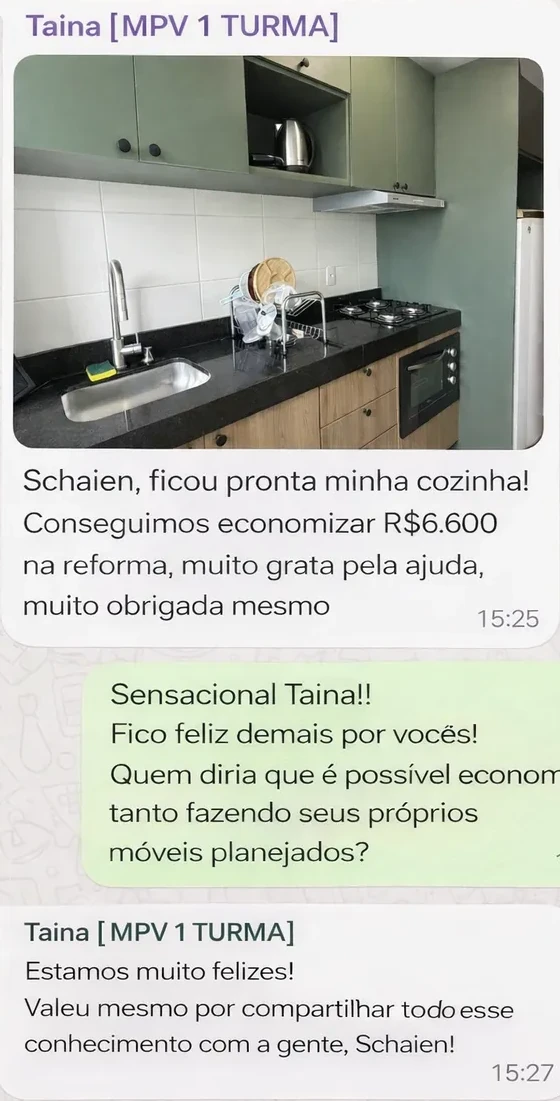
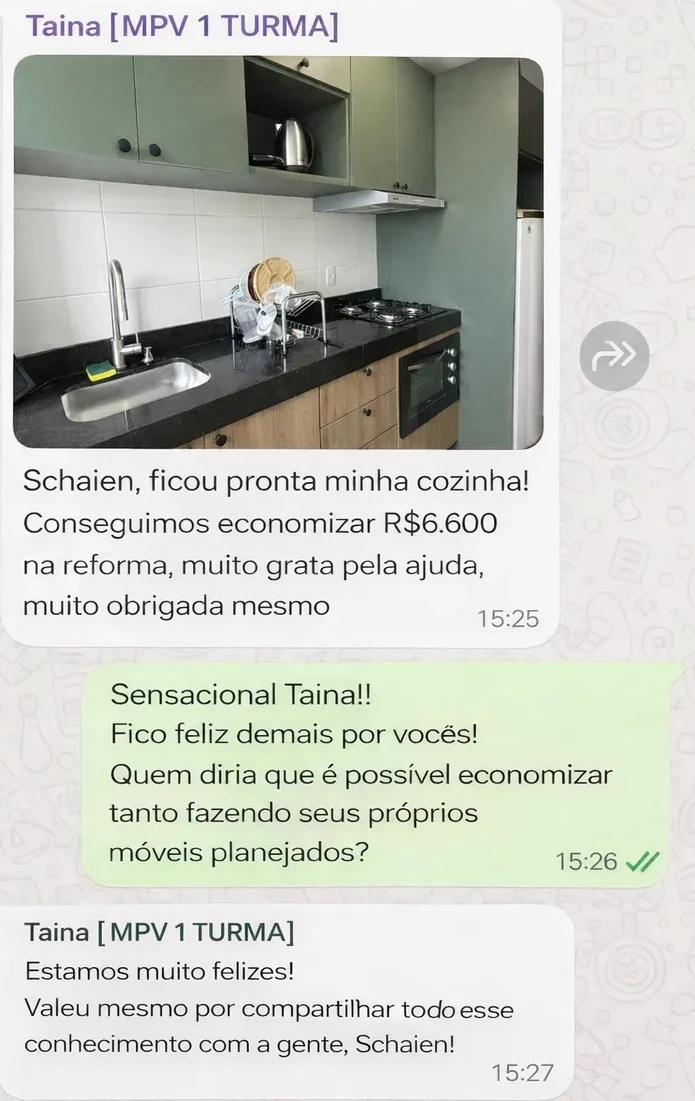
refactor: consolidate testimonials into expandable print wall

diff --git a/apps/web/app/lp/proof.tsx b/apps/web/app/lp/proof.tsx
@@ -1,53 +1,60 @@
 "use client";
 
 import { useRef, useState } from "react";
-import { LeadCaptureButton } from "../replica-components";
 
 const conversations = {
   adriely: { name: "Adriely Marconato Marum", image: "adriely-conversa", text: "Ainda faltam alguns detalhes para finalizar, mas já estamos muito felizes com o resultado! Também quero deixar meu agradecimento especial ao Schaien Vick pela assessoria durante todo o desenvolvimento do nosso projeto. Ele foi extremamente atencioso, tirou todas as minhas dúvidas, conferiu o projeto e sugeriu melhorias que fizeram toda a diferença. Indico o curso de olhos fechados!" },
   ale: { name: "Ale Rio", image: "ale-conversa", text: "Todo aprendizado e suporte do Schaein foi essencial pra completar esse sonho. Uma super paciência, cada detalhe dos vídeos e do suporte aqui incluindo a experiência dos outros alunos foi essencial. Ele criou um monstrinho que agora quer fazer projeto o tempo todo. Na mensagem completa, Ale também relata orçamentos entre R$ 85 mil e R$ 120 mil, R$ 28.500 de material e R$ 6.000 de montagem. São valores relatados para seu projeto; não representam economia garantida ou comparação auditada." },
   thais: { name: "Thais Moraes", image: "thais-conversa", text: "Prontinho! Projeto executado e instalado. Quero agradecer todo apoio e orientações, Schaien Vick. Eu amei." },
   taina: { name: "Taina", image: "taina-conversa", text: "Schaien, ficou pronta minha cozinha! Conseguimos economizar R$ 6.600 na reforma, muito grata pela ajuda, muito obrigada mesmo. Estamos muito felizes! Valeu mesmo por compartilhar todo esse conhecimento com a gente, Schaien! O valor é um relato individual, sem garantia de economia para outros projetos." },
+  maicon: { name: "Maicon", image: "maicon-conversa", text: "Tudo pronto! Projeto executado. Schaien, muito obrigado pela ajuda! Consegui economizar mais de R$ 10.000 na cozinha. Isso vai me ajudar muito para conseguir mobiliar o restante da casa! Economia relatada pelo participante, sem comparação auditada." },
+  mirella: { name: "Mirella", image: "mirella-processo", text: "Tá acontecendo! Mirella compartilha fotos do armário em montagem em 14 de outubro de 2026. Registro de processo em andamento." },
+  carol: { name: "Carol Kuhn", image: "carol-conversa", text: "Eu tbm!!! Investi no curso com a esperança de tirar meus sonhos do papel... e estão!!! Em breve, trago as novidades do meu projeto por aqui tbm. Registro de expectativa e andamento; a citação acima da mensagem é de Juliana, outra participante." },
 };
 
-function Conversation({ person, children = "Ampliar conversa" }: { person: keyof typeof conversations; children?: React.ReactNode }) {
-  const dialog = useRef<HTMLDialogElement>(null);
-  const trigger = useRef<HTMLButtonElement>(null);
-  const [open, setOpen] = useState(false);
-  const item = conversations[person];
-  function close() { dialog.current?.close(); setOpen(false); trigger.current?.focus(); }
-  return <>
-    <button type="button" className="lp-conversation-link" ref={trigger} onClick={() => { setOpen(true); dialog.current?.showModal(); }}>{children}<span aria-hidden="true"> ↗</span></button>
-    <dialog ref={dialog} className="lp-proof-dialog" aria-labelledby={`conversation-${person}`} onCancel={e => { e.preventDefault(); close(); }} onClick={e => { if (e.target === e.currentTarget) { const b = e.currentTarget.getBoundingClientRect(); if (e.clientX < b.left || e.clientX > b.right || e.clientY < b.top || e.clientY > b.bottom) close(); } }}>
-      <header><h2 id={`conversation-${person}`}>{item.name}</h2><button type="button" onClick={close} autoFocus aria-label="Fechar conversa">Fechar <span aria-hidden="true">×</span></button></header>
-      {open && <><img src={`/lp/${item.image}.webp`} alt={`Conversa de ${item.name} no WhatsApp, com dados de contato protegidos`} /><details><summary>Ler em texto</summary><p>{item.text}</p><p>Texto de apoio à leitura, com emojis omitidos e pontuação ajustada. O print preserva a mensagem original.</p></details></>}
-    </dialog>
-  </>;
-}
+
+type Person = keyof typeof conversations;
+const columns: Person[][] = [["thais", "mirella"], ["adriely", "carol"], ["maicon"], ["ale", "taina"]];
 
 export function ResultsProof() {
-  return <section className="lp-proof lp-results" aria-labelledby="lp-results-title">
-    <div className="lp-proof-inner">
-      <h2 id="lp-results-title">O projeto ganha forma.<br /><span>E passa a fazer parte da casa.</span></h2>
-      <p className="lp-intro">Veja os móveis de Adriely e o que ela compartilhou sobre a experiência com o curso.</p>
-      <div className="lp-case-layout">
-        <figure className="lp-case-photo"><img src="/lp/adriely-cozinha.webp" alt="Cozinha de Adriely: armários sob a pia, ilha com bancada e geladeira" width="1600" height="1200" loading="lazy" /><figcaption>Cozinha do projeto compartilhado por Adriely.</figcaption></figure>
-        <div className="lp-case-story"><h3>Adriely Marconato Marum</h3><p>Um projeto que reúne móveis para cozinha, lavanderia, banheiros, sala e quarto.</p><img className="lp-chat" src="/lp/adriely-suporte.webp" alt="Adriely agradece a assessoria, as dúvidas respondidas e a revisão do projeto, e indica o curso" width="538" height="434" loading="lazy" /><Conversation person="adriely" /><p className="lp-context">No relato, Adriely também informa que ainda faltavam instalar o espelho da penteadeira e uma prateleira.</p></div>
+  const [expanded, setExpanded] = useState(false);
+  const [selected, setSelected] = useState<Person | null>(null);
+  const dialog = useRef<HTMLDialogElement>(null);
+  const trigger = useRef<HTMLElement | null>(null);
+  const item = selected ? conversations[selected] : null;
+  function open(person: Person) {
+    trigger.current = document.activeElement as HTMLElement;
+    setSelected(person);
+    dialog.current?.showModal();
+  }
+  function close() {
+    dialog.current?.close();
+    setSelected(null);
+    trigger.current?.focus();
+  }
+  return <section className="lp-testimonials" aria-labelledby="lp-testimonials-title">
+    <div className="lp-testimonials-inner">
+      <h2 id="lp-testimonials-title">Projetos que saíram do papel.<br />Relatos de quem colocou em prática.</h2>
+      <p className="lp-wall-intro">Veja o que os alunos compartilham na comunidade Móveis Por Você.</p>
+      <div className={`lp-wall-viewport${expanded ? " is-expanded" : ""}`} id="lp-testimonial-wall">
+        <div className="lp-wall">
+          {columns.map((column, index) => <div className="lp-wall-column" key={index}>
+            {column.map(person => {
+              const entry = conversations[person];
+              return <figure className="lp-wall-item" key={person}>
+                <button type="button" onClick={() => open(person)} aria-label={`Ampliar depoimento de ${entry.name}`}><img src={`/lp/${entry.image}.webp`} alt={`Print da conversa de ${entry.name}: ${entry.text}`} loading="lazy" /></button>
+                <figcaption>{entry.name}{person === "mirella" || person === "carol" ? " · Projeto em andamento" : ""}</figcaption>
+              </figure>;
+            })}
+          </div>)}
+        </div>
       </div>
-      <p className="lp-privacy">Mensagens compartilhadas na comunidade. Telefones e fotos de perfil ocultados para preservar a privacidade.</p>
+      <div className="lp-wall-controls"><button type="button" aria-expanded={expanded} aria-controls="lp-testimonial-wall" onClick={() => setExpanded(v => !v)}>{expanded ? "Recolher relatos" : "Ver todos os relatos"}<svg viewBox="0 0 24 24" width="18" height="18" fill="none" aria-hidden="true" className={expanded ? "is-up" : ""}><path d="M12 4v16m-6-6 6 6 6-6" stroke="currentColor" strokeWidth="1.5" strokeLinecap="round" strokeLinejoin="round" /></svg></button></div>
+      <p className="lp-wall-note">Toque em um print para ampliar. Telefones e fotos de perfil protegidos.<br />Experiências individuais; custos e resultados variam conforme cada projeto.</p>
     </div>
+    <dialog ref={dialog} className="lp-wall-dialog" aria-labelledby="lp-wall-dialog-title" onCancel={e => { e.preventDefault(); close(); }} onClick={e => { if (e.target === e.currentTarget) { const rect = e.currentTarget.getBoundingClientRect(); if (e.clientX < rect.left || e.clientX > rect.right || e.clientY < rect.top || e.clientY > rect.bottom) close(); } }}>
+      <header><h2 id="lp-wall-dialog-title">{item?.name ?? "Depoimento"}</h2><button type="button" onClick={close} autoFocus aria-label="Fechar depoimento">Fechar ×</button></header>
+      {item && <><img src={`/lp/${item.image}.webp`} alt={`Conversa de ${item.name} com dados de contato protegidos`} /><details><summary>Ler em texto</summary><p>{item.text}</p><p>Texto de apoio à leitura. O print preserva a mensagem original.</p></details></>}
+    </dialog>
   </section>;
-}
-
-export function SupportProof() {
-  return <section className="lp-proof lp-support" aria-labelledby="lp-support-title"><div className="lp-proof-inner">
-    <div className="lp-support-layout"><div><h2 id="lp-support-title">Aprender também é poder<br /><span>tirar as dúvidas pelo caminho.</span></h2><p className="lp-intro">Ale conta como os vídeos, o suporte de Schaien e a experiência dos outros alunos participaram do seu projeto.</p><p className="lp-person">Ale Rio</p><img className="lp-chat" src="/lp/ale-suporte.webp" alt="Ale relata que o aprendizado e o suporte foram essenciais, destacando a paciência, os vídeos e a experiência de outros alunos" width="547" height="848" loading="lazy" /><Conversation person="ale" /><p className="lp-context">Mensagem original de Ale, com os custos relatados para seu projeto. Os valores dependem do escopo e não representam economia garantida.</p></div><div className="lp-process"><h3>Da chegada das peças à montagem</h3><p>Mirella compartilhou uma etapa do armário em montagem. É um registro do processo, ainda em andamento.</p><details><summary>Ver o registro de montagem de Mirella</summary><img src="/lp/mirella-processo.webp" alt="Mirella mostra o armário em montagem e escreve: Tá acontecendo" width="547" height="729" loading="lazy" /></details><details><summary>Ver o primeiro dia da cozinha de Ale</summary><img src="/lp/ale-processo.webp" alt="Ale mostra a cozinha em montagem e relata um imprevisto com o interruptor atrás da geladeira" width="547" height="746" loading="lazy" /></details></div></div>
-  </div></section>;
-}
-
-export function StudentProof() {
-  return <section className="lp-proof lp-students" aria-labelledby="lp-students-title"><div className="lp-proof-inner"><h2 id="lp-students-title">Outras cozinhas.<br /><span>Outras histórias para conhecer.</span></h2><div className="lp-student-grid">
-    <article><img className="lp-student-photo" src="/lp/thais-projeto.webp" alt="Cozinha compartilhada por Thais, com móveis amadeirados e bancada escura" width="558" height="558" loading="lazy" /><h3>Thais Moraes</h3><blockquote>“Prontinho! Projeto executado e instalado”</blockquote><p>Thais também agradeceu o apoio e as orientações de Schaien.</p><Conversation person="thais" /></article>
-    <article><img className="lp-student-photo" src="/lp/taina-projeto.webp" alt="Cozinha compartilhada por Taina, com aéreos verdes e armários inferiores amadeirados" width="528" height="392" loading="lazy" /><h3>Taina</h3><blockquote>“Estamos muito felizes!”</blockquote><p>Na conversa, Taina agradece o conhecimento compartilhado e a ajuda no projeto.</p><Conversation person="taina" /></article>
-  </div><p className="lp-privacy">Fotos e relatos de projetos individuais. Cada execução tem seu próprio escopo, materiais e custos.</p><div className="lp-proof-action"><LeadCaptureButton className="btn-cta" origin="lp-depoimentos">QUERO CONHECER O CURSO</LeadCaptureButton></div></div></section>;
 }

diff --git a/apps/web/app/lp/proof.css b/apps/web/app/lp/proof.css
@@ -1,1 +1,1 @@
-.lp-proof{padding:88px 24px;color:#f4f1ee;background:#191614}.lp-proof-inner{max-width:1120px;margin:0 auto}.lp-proof h2{font-family:Montserrat,sans-serif;font-size:clamp(28px,3.2vw,44px);font-weight:800;line-height:1.18;letter-spacing:-.025em;text-wrap:balance;margin:0 0 24px}.lp-proof h2 span{color:#ff790f}.lp-proof h3{font:700 23px/1.3 Montserrat,sans-serif;margin:0 0 16px}.lp-proof p{font:400 17px/1.65 Inter,sans-serif;max-width:65ch;margin:0 0 20px}.lp-proof .lp-intro{color:#d0c5bd;max-width:60ch;margin-bottom:40px}.lp-case-layout{display:grid;grid-template-columns:1.1fr 1fr;gap:48px;align-items:start}.lp-case-photo{margin:0;position:sticky;top:32px}.lp-case-photo>img{display:block;width:100%;height:auto;aspect-ratio:4/3;object-fit:cover;border-radius:12px}.lp-case-photo figcaption{font:400 14px/1.5 Inter,sans-serif;color:#bfb3aa;margin-top:12px}.lp-chat{display:block;width:100%;height:auto;border-radius:8px;margin:20px 0 12px}.lp-conversation-link{font:600 15px/1.5 Inter,sans-serif;color:#ffac6c;text-decoration:underline;text-underline-offset:5px;padding:10px 0;cursor:pointer;min-height:44px}.lp-conversation-link:hover{color:#ffd6b8}.lp-proof .lp-context{font-size:14px;color:#c6bbb3;margin-top:16px}.lp-proof .lp-privacy{font-size:13px;color:#c6bbb3;margin-top:32px}.lp-support{background:#211c18;border-block:1px solid #40342b}.lp-support-layout{display:grid;grid-template-columns:1.2fr 1fr;gap:72px}.lp-person{font-weight:700!important}.lp-process{padding-top:4px}.lp-proof details{border-top:1px solid #59483b;padding:16px 0}.lp-proof summary{font:600 16px/1.6 Inter,sans-serif;cursor:pointer;min-height:44px}.lp-proof details img{display:block;width:100%;height:auto;margin-top:20px;border-radius:8px}.lp-student-grid{display:grid;grid-template-columns:1fr 1fr;gap:48px;margin-top:40px}.lp-student-photo{display:block;width:100%;height:auto;aspect-ratio:4/3;object-fit:cover;border-radius:12px;margin-bottom:24px}.lp-student-grid blockquote{font:600 22px/1.5 Inter,sans-serif;color:#fff;margin:0 0 12px}.lp-proof-action{margin-top:32px}.lp-proof-dialog{position:fixed;inset:0;margin:auto;padding:0 20px 24px;border:1px solid #574b42;border-radius:12px;background:#211c18;color:#f4f1ee;width:min(720px,calc(100vw - 24px));max-height:90dvh;overflow:auto;overscroll-behavior:contain}.lp-proof-dialog::backdrop{background:rgb(0 0 0/.85)}.lp-proof-dialog header{display:flex;align-items:center;justify-content:space-between;gap:16px;position:sticky;top:0;z-index:1;padding:18px 0;background:#211c18}.lp-proof-dialog header h2{font:600 17px/1.4 Inter,sans-serif;margin:0}.lp-proof-dialog header button{font:600 15px/1.5 Inter,sans-serif;padding:8px;min-height:44px;white-space:nowrap}.lp-proof-dialog>img{width:100%;height:auto;display:block}.lp-proof-dialog details{margin-top:20px}.lp-proof-dialog details p{font:400 16px/1.7 Inter,sans-serif;margin-top:16px}.lp-proof :focus-visible,.lp-proof-dialog :focus-visible{outline:2px solid #ffb47d;outline-offset:4px}.lp-proof-dialog summary{cursor:pointer}.lp-proof-dialog[open]{animation:lp-open .18s ease-out}@keyframes lp-open{from{opacity:0;transform:translateY(8px)}to{opacity:1;transform:translateY(0)}}@media(max-width:760px){.lp-proof{padding:56px 20px}.lp-case-layout,.lp-support-layout,.lp-student-grid{grid-template-columns:1fr;gap:32px}.lp-case-photo{position:static}.lp-proof .lp-intro{margin-bottom:28px}.lp-student-grid{gap:44px}.lp-support-layout{gap:36px}.lp-proof-dialog header h2{font-size:15px}.lp-proof-dialog{padding-inline:12px}.lp-proof p{font-size:16px}.lp-proof .lp-privacy{font-size:13px}.lp-student-grid blockquote{font-size:21px}}@media(prefers-reduced-motion:reduce){.lp-proof-dialog[open]{animation:none}}
+.lp-testimonials{background:#f7f7f7;color:#202020;padding:76px 24px 60px}.lp-testimonials-inner{max-width:1120px;margin:auto}.lp-testimonials h2{font:800 clamp(26px,3vw,36px)/1.22 Montserrat,sans-serif;text-align:center;letter-spacing:-.025em;text-wrap:balance;margin:0 auto 18px;max-width:780px}.lp-wall-intro{font:400 16px/1.6 Inter,sans-serif;text-align:center;color:#555;margin:0 0 36px}.lp-wall-viewport{position:relative;max-height:610px;overflow:hidden}.lp-wall-viewport:not(.is-expanded)::after{content:"";position:absolute;inset:auto 0 0;height:150px;background:linear-gradient(transparent,#f7f7f7);pointer-events:none}.lp-wall-viewport.is-expanded{max-height:none;overflow:visible}.lp-wall{display:grid;grid-template-columns:repeat(4,minmax(0,1fr));gap:14px;align-items:start}.lp-wall-column{display:flex;flex-direction:column;gap:14px;min-width:0}.lp-wall-item{margin:0;background:#fff;border:1px solid #e5e5e5;border-radius:18px;padding:8px;overflow:hidden;break-inside:avoid}.lp-wall-item button{display:block;border:0;width:100%;padding:0;background:transparent;cursor:zoom-in;border-radius:12px;overflow:hidden}.lp-wall-item img{display:block;width:100%;height:auto}.lp-wall-item figcaption{font:500 11px/1.5 Inter,sans-serif;color:#666;margin:8px 4px 2px}.lp-wall-controls{position:relative;z-index:1;text-align:center;margin-top:18px}.lp-wall-controls>button{display:inline-flex;align-items:center;justify-content:center;gap:12px;min-height:46px;padding:12px 24px;border-radius:28px;background:#292929;color:#fff;font:700 14px/1.5 Inter,sans-serif;cursor:pointer;border:1px solid #111}.lp-wall-controls>button:hover{background:#111}.lp-wall-controls svg{transition:transform .18s ease-out}.lp-wall-controls .is-up{transform:rotate(180deg)}.lp-wall-note{font:400 12px/1.7 Inter,sans-serif;color:#666;text-align:center;margin:20px auto 0}.lp-testimonials :focus-visible,.lp-wall-dialog :focus-visible{outline:3px solid #e46200;outline-offset:4px}.lp-wall-dialog{position:fixed;inset:0;margin:auto;width:min(690px,calc(100vw - 24px));max-height:92dvh;overflow:auto;overscroll-behavior:contain;background:#fff;color:#222;padding:0 16px 24px;border-radius:14px;border:1px solid #ddd}.lp-wall-dialog::backdrop{background:rgb(0 0 0/.82)}.lp-wall-dialog header{position:sticky;top:0;background:#fff;z-index:1;display:flex;align-items:center;justify-content:space-between;gap:12px;padding:14px 0}.lp-wall-dialog h2{font:700 17px/1.4 Inter,sans-serif;margin:0}.lp-wall-dialog header button{font:600 14px/1.5 Inter,sans-serif;padding:8px;min-height:44px;cursor:pointer}.lp-wall-dialog>img{width:100%;height:auto;display:block}.lp-wall-dialog details{padding-top:20px;font:400 16px/1.7 Inter,sans-serif}.lp-wall-dialog summary{cursor:pointer;font-weight:600}.lp-wall-dialog details p{margin-top:16px}@media(max-width:900px){.lp-wall{grid-template-columns:repeat(2,minmax(0,1fr))}.lp-wall-viewport{max-height:760px}.lp-testimonials{padding:56px 20px}}@media(max-width:520px){.lp-wall{grid-template-columns:1fr;gap:16px}.lp-wall-column{display:contents}.lp-wall-item:nth-child(n){margin:0}.lp-wall-viewport{max-height:850px}.lp-testimonials{padding:48px 18px}.lp-wall-intro{font-size:15px;margin-bottom:28px}.lp-testimonials h2{font-size:27px}.lp-wall-item{padding:6px;border-radius:14px}.lp-wall-item figcaption{font-size:12px}.lp-wall-dialog h2{font-size:15px}}@media(prefers-reduced-motion:reduce){.lp-wall-controls svg{transition:none}}

diff --git a/apps/web/app/lp/page.tsx b/apps/web/app/lp/page.tsx
@@ -1,5 +1,5 @@
 // Variante /lp com provas visuais; home preservada.
-import { ResultsProof, SupportProof, StudentProof } from "./proof";
+import { ResultsProof } from "./proof";
 import "./proof.css";
 // Replica do DOM publico observado em 31/10/2026. Fonte: ../reference/page-tree.json.
 import "../reference-fonts.css";
@@ -1818,10 +1818,8 @@ export default function Home() {
         <ProofSection />
         <TruthSection />
         <CurriculumSection />
-        <SupportProof />
         <AudienceSection />
         <RecapSection />
-        <StudentProof />
         <OfferSection />
         <UrgencySection />
         <AuthoritySection />
